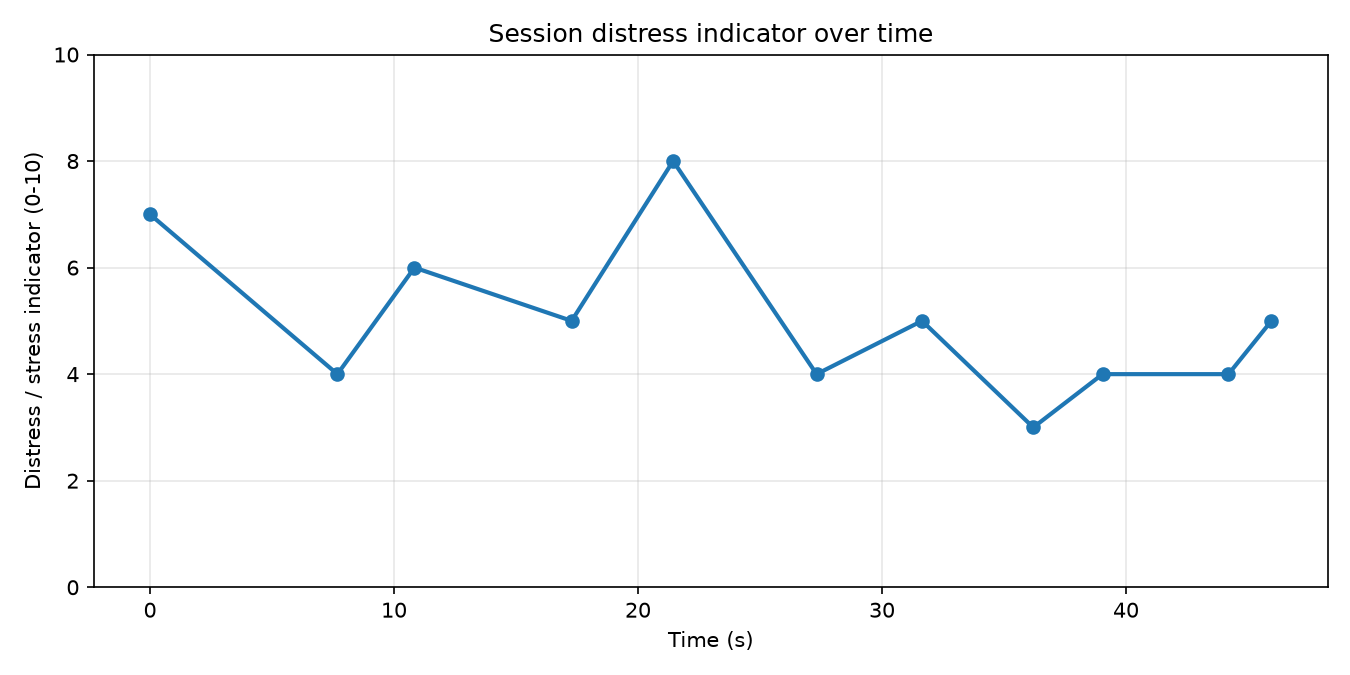
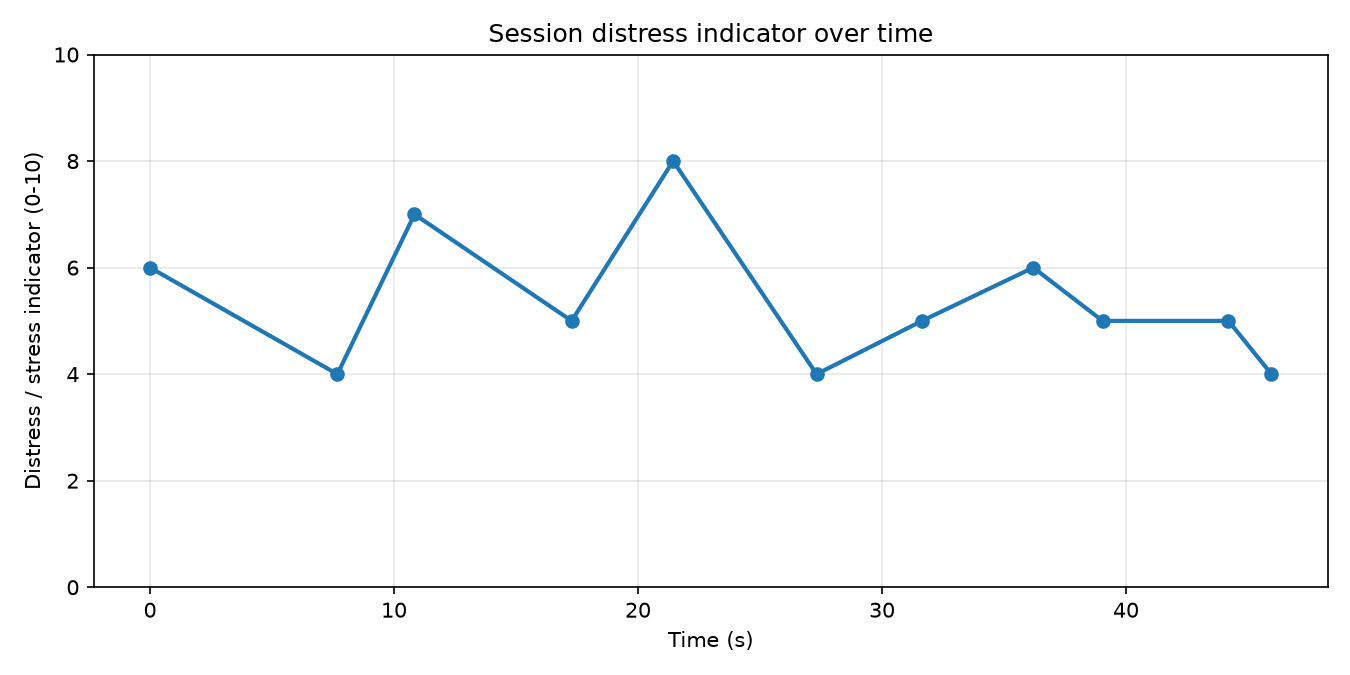
Added folder 03_adding_emotion
Added emotions with the aroustic metrics for more improved accuratcy for qwen

diff --git a/chatbot/04_chat_llm/chat_llm.py b/chatbot/04_chat_llm/chat_llm.py
@@ -24,6 +24,8 @@ SCRIPT_DIR = os.path.dirname(os.path.abspath(__file__))
 OLLAMA_URL = "http://localhost:11434/api/chat"
 MODEL = "qwen2.5:7b-instruct"
 
+REQUIRED_KEYS = ("segments", "clinician_summary", "patient_message")
+
 SYSTEM_PROMPT = """You are a clinical decision-support assistant, NOT a therapist and NOT a diagnostic tool.
 You are given a transcript of a patient's voice-note reflections, segment by segment, along with
 acoustic features (pitch variability, energy variability, pause ratio, arousal label) extracted from
@@ -74,12 +76,38 @@ Return ONLY valid JSON, no markdown fences, no preamble, in exactly this shape:
   "clinician_summary": "<string>",
   "patient_message": "<string>"
 }
+
+IMPORTANT: Always include ALL THREE top-level keys — "segments", "clinician_summary", and
+"patient_message" — in every response, even if you have to keep clinician_summary or
+patient_message brief to fit. Never omit a key.
 """
 
 
+def trim_segment_for_prompt(seg):
+    """
+    Send the LLM only what the prompt actually asks it to reason about.
+    Drops the raw 8-way speech_emotion probability dict (redundant noise the
+    prompt never references) and keeps just the label, to cut prompt size
+    and avoid conflicting-signal confusion between arousal_label and
+    speech_emotion_label on short clips.
+    """
+    trimmed = {
+        "start": seg.get("start"),
+        "end": seg.get("end"),
+        "text": seg.get("text"),
+        "acoustic_features": seg.get("acoustic_features"),
+        "arousal_label": seg.get("arousal_label"),
+    }
+    if "speech_emotion_label" in seg:
+        trimmed["speech_emotion_label"] = seg["speech_emotion_label"]
+    return trimmed
+
+
 def call_ollama(transcript_segments):
+    trimmed_segments = [trim_segment_for_prompt(s) for s in transcript_segments]
+
     user_content = "Transcript segments with acoustic features:\n\n" + json.dumps(
-        transcript_segments, indent=2
+        trimmed_segments, indent=2
     )
 
     payload = {
@@ -90,6 +118,14 @@ def call_ollama(transcript_segments):
         ],
         "stream": False,
         "format": "json",  # ask ollama to constrain to valid JSON
+        "options": {
+            # Default num_ctx (2048) is too small once acoustic + emotion
+            # fields are included for every segment — the model can run out
+            # of context mid-generation and Ollama closes the JSON early,
+            # silently dropping clinician_summary/patient_message.
+            "num_ctx": 8192,
+            "num_predict": 2048,
+        },
     }
 
     resp = requests.post(OLLAMA_URL, json=payload, timeout=300)
@@ -121,7 +157,7 @@ def call_ollama(transcript_segments):
     cleaned = cleaned.strip()
 
     try:
-        return json.loads(cleaned)
+        parsed = json.loads(cleaned)
     except json.JSONDecodeError:
         # save what we got so it's inspectable instead of losing it
         debug_path = os.path.join(SCRIPT_DIR, "output", "_last_raw_response.txt")
@@ -130,6 +166,22 @@ def call_ollama(transcript_segments):
             f.write(raw)
         print(f"Could not parse model output as JSON. Raw output saved to {debug_path}")
         raise
+
+    missing = [k for k in REQUIRED_KEYS if k not in parsed]
+    if missing:
+        debug_path = os.path.join(SCRIPT_DIR, "output", "_last_raw_response.txt")
+        os.makedirs(os.path.dirname(debug_path), exist_ok=True)
+        with open(debug_path, "w") as f:
+            f.write(raw)
+        raise RuntimeError(
+            f"Ollama returned valid JSON but was missing required key(s): {missing}. "
+            f"This usually means the response got cut off before finishing (context/output "
+            f"limit reached) or 'done_reason' was not a natural stop. Raw output saved to "
+            f"{debug_path} for inspection — check its 'done_reason' field if present, and "
+            f"consider trimming the input transcript or raising num_ctx/num_predict further."
+        )
+
+    return parsed
 
 
 def make_graph(segments, out_path):
@@ -257,7 +309,7 @@ def main(input_path, output_dir):
 
 if __name__ == "__main__":
     input_path = sys.argv[1] if len(sys.argv) > 1 else os.path.join(
-        SCRIPT_DIR, "input", "transcript_with_acoustic_metric.json"
+        SCRIPT_DIR, "input", "transcript_with_emotions.json"
     )
     output_dir = sys.argv[2] if len(sys.argv) > 2 else os.path.join(SCRIPT_DIR, "output")
     main(input_path, output_dir)
